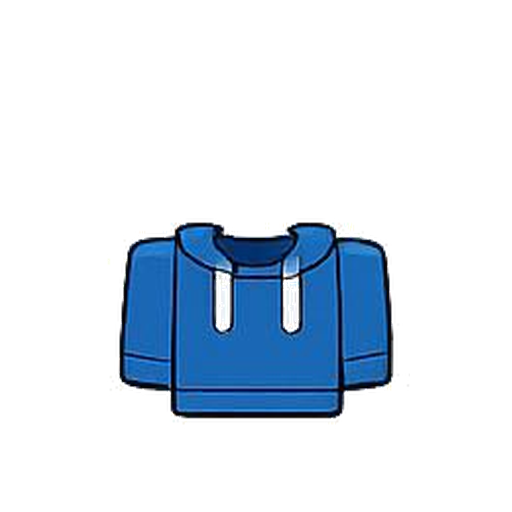
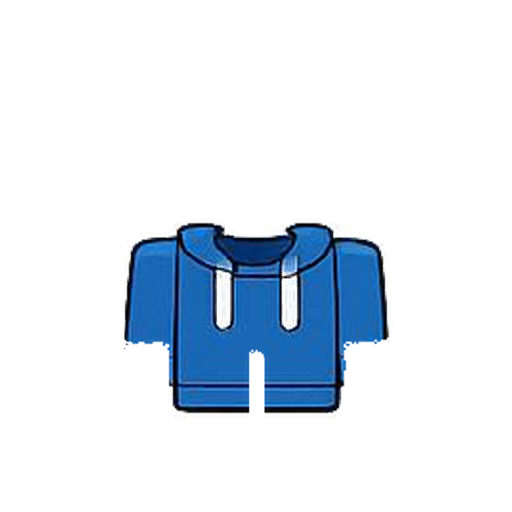
r51: regenerate top parts with torso-locked template

Changed region(s): [[0.2188, 0.4062, 0.7812, 0.8438]]

diff --git a/lib/main.dart b/lib/main.dart
@@ -14,7 +14,7 @@ import 'data/scenario_repository.dart';
 import 'models/scenario.dart';
 import 'miniroom_coordinate_mapper.dart';
 
-const kAppUiVersion = 'ui-2026.02.27-r50';
+const kAppUiVersion = 'ui-2026.02.27-r51';
 
 const _kSeoulOffset = Duration(hours: 9);
 const _kReviewRoundRewardCoins = 45;

diff --git a/scripts/r51_top_template_regen.py b/scripts/r51_top_template_regen.py
@@ -1,0 +1,260 @@
+#!/usr/bin/env python3
+from __future__ import annotations
+
+from pathlib import Path
+from typing import Dict
+
+from PIL import Image, ImageDraw
+
+ROOT = Path(__file__).resolve().parents[1]
+SRC_DIR = ROOT / "assets/minimi/generated"
+NORM_DIR = ROOT / "assets/minimi/normalized"
+TPL_DIR = ROOT / "assets/minimi/template"
+ART_DIR = ROOT / "artifacts/minimi_alignment_samples"
+DOC_PATH = ROOT / "docs/r51_top_template.md"
+
+NORM_SIZE = 512
+TOP_IDS = [
+    "top_green_hoodie",
+    "top_blue_jersey",
+    "top_orange_knit",
+    "top_purple_zipup",
+    "top_white_shirt",
+]
+
+OLD_CANVAS = (160.0, 242.0)
+SCALE = NORM_SIZE / OLD_CANVAS[1]
+X_CENTER_OLD = OLD_CANVAS[0] / 2.0
+X_CENTER_NEW = NORM_SIZE / 2.0
+TOP_STYLE_SIZE = (146.0, 110.0)
+TOP_STYLE_ANCHOR = (0.5, 0.63)
+
+
+def old_to_new(x_old: float, y_old: float) -> tuple[float, float]:
+    x_new = ((x_old - X_CENTER_OLD) * SCALE) + X_CENTER_NEW
+    y_new = y_old * SCALE
+    return x_new, y_new
+
+
+def normalize_from_generated(path: Path) -> Image.Image:
+    src = Image.open(path).convert("RGBA")
+    target_w = max(1, int(round(TOP_STYLE_SIZE[0] * SCALE)))
+    target_h = max(1, int(round(TOP_STYLE_SIZE[1] * SCALE)))
+    layer = src.resize((target_w, target_h), Image.Resampling.LANCZOS)
+
+    anchor_old = (OLD_CANVAS[0] * TOP_STYLE_ANCHOR[0], OLD_CANVAS[1] * TOP_STYLE_ANCHOR[1])
+    anchor_new = old_to_new(*anchor_old)
+    left = int(round(anchor_new[0] - (target_w / 2.0)))
+    top = int(round(anchor_new[1] - (target_h / 2.0)))
+
+    out = Image.new("RGBA", (NORM_SIZE, NORM_SIZE), (0, 0, 0, 0))
+    out.alpha_composite(layer, dest=(left, top))
+    return out
+
+
+def build_torso_template(base_body: Image.Image) -> Image.Image:
+    alpha = base_body.split()[-1]
+    bbox = alpha.getbbox()
+    if bbox is None:
+        raise RuntimeError("base_body alpha is empty")
+
+    l, t, r, b = bbox
+    w = r - l
+    h = b - t
+
+    torso_rect = (
+        int(l + w * 0.06),
+        int(t + h * 0.40),
+        int(r - w * 0.06),
+        int(t + h * 0.86),
+    )
+
+    template_alpha = Image.new("L", (NORM_SIZE, NORM_SIZE), 0)
+    draw = ImageDraw.Draw(template_alpha)
+    draw.rounded_rectangle(torso_rect, radius=28, fill=255)
+
+    # body 영역 밖은 제거해서 "body 기준 torso 템플릿"으로 고정
+    template_alpha = Image.composite(template_alpha, Image.new("L", (NORM_SIZE, NORM_SIZE), 0), alpha)
+
+    template = Image.new("RGBA", (NORM_SIZE, NORM_SIZE), (0, 0, 0, 0))
+    template.putalpha(template_alpha)
+    return template
+
+
+def retarget_to_template(top_img: Image.Image, template: Image.Image) -> Image.Image:
+    top_alpha = top_img.split()[-1]
+    ta = template.split()[-1]
+    b_top = top_alpha.getbbox()
+    b_tpl = ta.getbbox()
+    if b_top is None or b_tpl is None:
+        return top_img
+
+    bw, bh = b_top[2] - b_top[0], b_top[3] - b_top[1]
+    tw, th = b_tpl[2] - b_tpl[0], b_tpl[3] - b_tpl[1]
+
+    scale = min((tw * 0.97) / max(1, bw), (th * 0.93) / max(1, bh))
+
+    resized = top_img.resize(
+        (max(1, int(round(NORM_SIZE * scale))), max(1, int(round(NORM_SIZE * scale)))),
+        Image.Resampling.LANCZOS,
+    )
+    ra = resized.split()[-1]
+    rb = ra.getbbox()
+    if rb is None:
+        return top_img
+
+    # torso 템플릿 중앙 + 목선 여유(상단 +6px)
+    target_cx = (b_tpl[0] + b_tpl[2]) // 2
+    target_top = b_tpl[1] + 6
+
+    offset_x = int(round(target_cx - (rb[0] + rb[2]) / 2))
+    offset_y = int(round(target_top - rb[1]))
+
+    out = Image.new("RGBA", (NORM_SIZE, NORM_SIZE), (0, 0, 0, 0))
+    out.alpha_composite(resized, dest=(offset_x, offset_y))
+
+    # template 내부로 강제 클리핑
+    out_arr = out.split()
+    clipped_alpha = ImageChops.multiply(out_arr[-1], ta)
+    out.putalpha(clipped_alpha)
+    return out
+
+
+def render_character(top_id: str, hair_id: str = "hair_basic_black") -> Image.Image:
+    base = Image.open(NORM_DIR / "base_body.png").convert("RGBA")
+    hair = Image.open(NORM_DIR / f"{hair_id}.png").convert("RGBA")
+    top = Image.open(NORM_DIR / f"{top_id}.png").convert("RGBA")
+
+    canvas = Image.new("RGBA", (NORM_SIZE, NORM_SIZE), (0, 0, 0, 0))
+    canvas.alpha_composite(base)
+    canvas.alpha_composite(top)
+    canvas.alpha_composite(hair)
+    return canvas
+
+
+def save_before_after(before: Dict[str, Image.Image]) -> Path:
+    ART_DIR.mkdir(parents=True, exist_ok=True)
+    cell_w, cell_h = 220, 220
+    pad = 20
+    label_h = 30
+    rows = len(TOP_IDS)
+    width = pad * 4 + cell_w * 2
+    height = pad * (rows + 1) + rows * (cell_h + label_h)
+    sheet = Image.new("RGBA", (width, height), (248, 250, 255, 255))
+    d = ImageDraw.Draw(sheet)
+
+    for i, top_id in enumerate(TOP_IDS):
+        y = pad + i * (cell_h + label_h + pad)
+        d.text((pad, y), top_id.replace("top_", ""), fill=(40, 48, 60, 255))
+
+        b = before[top_id].resize((cell_w, cell_h), Image.Resampling.LANCZOS)
+        a = render_character(top_id).resize((cell_w, cell_h), Image.Resampling.LANCZOS)
+
+        bx = pad
+        ax = pad * 3 + cell_w
+        by = y + label_h
+        d.rectangle((bx - 1, by - 1, bx + cell_w + 1, by + cell_h + 1), outline=(210, 218, 235, 255), width=2)
+        d.rectangle((ax - 1, by - 1, ax + cell_w + 1, by + cell_h + 1), outline=(160, 198, 160, 255), width=2)
+        d.text((bx + 6, by + 6), "before", fill=(90, 95, 110, 255))
+        d.text((ax + 6, by + 6), "after", fill=(48, 112, 63, 255))
+        sheet.alpha_composite(b, dest=(bx, by))
+        sheet.alpha_composite(a, dest=(ax, by))
+
+    out = ART_DIR / "r51_top_before_after.png"
+    sheet.save(out)
+    return out
+
+
+def save_preview() -> Path:
+    ART_DIR.mkdir(parents=True, exist_ok=True)
+    cell = 220
+    pad = 20
+    label_h = 28
+    cols = len(TOP_IDS)
+    width = pad * (cols + 1) + cell * cols
+    height = pad * 2 + label_h + cell
+    sheet = Image.new("RGBA", (width, height), (255, 255, 255, 255))
+    d = ImageDraw.Draw(sheet)
+
+    for i, top_id in enumerate(TOP_IDS):
+        x = pad + i * (cell + pad)
+        y = pad
+        d.text((x, y), top_id.replace("top_", ""), fill=(50, 56, 68, 255))
+        preview = render_character(top_id).resize((cell, cell), Image.Resampling.LANCZOS)
+        sheet.alpha_composite(preview, dest=(x, y + label_h))
+
+    out = ART_DIR / "r51_top_preview.png"
+    sheet.save(out)
+    return out
+
+
+def write_doc(template_bbox: tuple[int, int, int, int], tops: list[str]) -> None:
+    DOC_PATH.parent.mkdir(parents=True, exist_ok=True)
+    lines = [
+        "# r51 상의 템플릿 재생성",
+        "",
+        "- 기준: `assets/minimi/normalized/base_body.png` 알파 실루엣에서 torso 영역만 추출",
+        "- 템플릿: `assets/minimi/template/top_torso_template.png`",
+        "- 방법: torso 라운드 마스크 내부에 top 파츠를 리타겟(중심 정렬 + 목선 기준 상단 고정) 후 템플릿 외부는 클리핑",
+        f"- 템플릿 bbox(512 기준): `{template_bbox}`",
+        f"- 교체 대상(top 5): {', '.join(tops)}",
+    ]
+    DOC_PATH.write_text("\n".join(lines) + "\n", encoding="utf-8")
+
+
+def main() -> None:
+    from PIL import ImageChops
+
+    base = Image.open(NORM_DIR / "base_body.png").convert("RGBA")
+    template = build_torso_template(base)
+    ta = template.split()[-1]
+    tpl_bbox = ta.getbbox()
+
+    TPL_DIR.mkdir(parents=True, exist_ok=True)
+    template_path = TPL_DIR / "top_torso_template.png"
+    template.save(template_path)
+
+    before = {}
+    for top_id in TOP_IDS:
+        before[top_id] = render_character(top_id)
+
+    for top_id in TOP_IDS:
+        src = SRC_DIR / f"{top_id}.png"
+        norm = normalize_from_generated(src)
+        # local scope ImageChops import
+        top_alpha = norm.split()[-1]
+        clipped_alpha = ImageChops.multiply(top_alpha, ta)
+        norm.putalpha(clipped_alpha)
+
+        b = norm.split()[-1].getbbox()
+        if b and tpl_bbox:
+            bw, bh = b[2] - b[0], b[3] - b[1]
+            tw, th = tpl_bbox[2] - tpl_bbox[0], tpl_bbox[3] - tpl_bbox[1]
+            scale = min((tw * 0.97) / max(1, bw), (th * 0.93) / max(1, bh))
+            resized = norm.resize((max(1, int(round(NORM_SIZE * scale))), max(1, int(round(NORM_SIZE * scale)))), Image.Resampling.LANCZOS)
+            rb = resized.split()[-1].getbbox()
+            if rb:
+                target_cx = (tpl_bbox[0] + tpl_bbox[2]) // 2
+                target_top = tpl_bbox[1] + 6
+                ox = int(round(target_cx - (rb[0] + rb[2]) / 2))
+                oy = int(round(target_top - rb[1]))
+                out = Image.new("RGBA", (NORM_SIZE, NORM_SIZE), (0, 0, 0, 0))
+                out.alpha_composite(resized, dest=(ox, oy))
+                final_alpha = ImageChops.multiply(out.split()[-1], ta)
+                out.putalpha(final_alpha)
+                norm = out
+
+        norm.save(NORM_DIR / f"{top_id}.png")
+
+    before_after = save_before_after(before)
+    preview = save_preview()
+    write_doc(tpl_bbox if tpl_bbox else (0, 0, 0, 0), TOP_IDS)
+
+    print(f"template: {template_path}")
+    print(f"before_after: {before_after}")
+    print(f"preview: {preview}")
+    print(f"doc: {DOC_PATH}")
+
+
+if __name__ == "__main__":
+    main()

diff --git a/docs/r51_top_template.md b/docs/r51_top_template.md
@@ -1,0 +1,7 @@
+# r51 상의 템플릿 재생성
+
+- 기준: `assets/minimi/normalized/base_body.png` 알파 실루엣에서 torso 영역만 추출
+- 템플릿: `assets/minimi/template/top_torso_template.png`
+- 방법: torso 라운드 마스크 내부에 top 파츠를 리타겟(중심 정렬 + 목선 기준 상단 고정) 후 템플릿 외부는 클리핑
+- 템플릿 bbox(512 기준): `(121, 212, 398, 443)`
+- 교체 대상(top 5): top_green_hoodie, top_blue_jersey, top_orange_knit, top_purple_zipup, top_white_shirt
